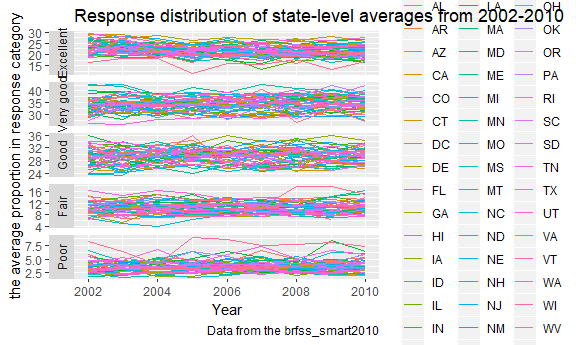
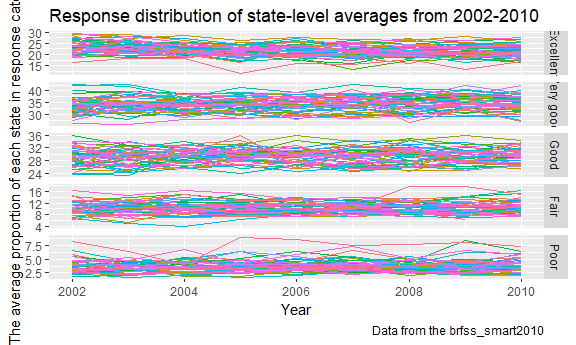
problem 2

diff --git a/p8105_hw3_hq2163_hanbo.md b/p8105_hw3_hq2163_hanbo.md
@@ -21,9 +21,11 @@ overall_health = janitor::clean_names(brfss_smart2010) %>%
 In 2002, which states were observed at 7 locations?
 
 ``` r
+#Make a table with distinct location in 2002.
 dist_loc_02 = filter(overall_health, year == 2002) %>% 
   distinct(locationabbr, locationdesc)
 
+#Make a table with distinct location in 2002.
 state_loc_7 = count(dist_loc_02, locationabbr) %>% 
   filter(n == 7)
 state_loc_7$locationabbr
@@ -41,32 +43,30 @@ dist_loc = distinct(overall_health, year, locationabbr, locationdesc)
 dist_loc %>% 
   ggplot(aes(x = year, color = locationabbr)) +
   geom_freqpoly(binwidth = 1) +
-  scale_x_continuous(breaks = 2002:2010, limits = c(2002,2010))+
+  scale_x_continuous(breaks = 2002:2010, limits = c(2002,2010)) +
   labs(
     title = "The number of observations in each state from 2002 to 2010",
     x = "Year",
-    y = "the number of observations in each state",
+    y = "No. of observations in each state",
     caption = "Data from the brfss_smart2010"
-  )
+  ) +
+  theme(legend.position="none")
 ```
 
     ## Warning: Removed 102 rows containing missing values (geom_path).
 
-<img src="p8105_hw3_hq2163_hanbo_files/figure-markdown_github/unnamed-chunk-3-1.png" width="90%" />
+<img src="p8105_hw3_hq2163_hanbo_files/figure-markdown_github/unnamed-chunk-3-1.png" width="90%" /> The number of observations in State jumps to above 40 in 2007 and 2010. The number of observations all the other states kept under 20 for the rest of the years.
 
-2002, 2006, and 2010, the mean and standard deviation of the proportion of “Excellent” responses across locations in NY State
+The mean and standard deviation of the proportion of “Excellent” responses across locations in NY State in 2002, 2006, and 2010.
 
 ``` r
-excellent_ny = filter(overall_health,
-                      year %in% c(2002, 2006, 2010), 
-                      response == "Excellent", 
-                      locationabbr == "NY") %>% 
-  group_by(year)
-
-ny_mean_sd = summarise(excellent_ny,
-                       excellent_mean = mean(data_value, na.rm = TRUE),
-                       excellent_sd = sd(data_value, na.rm = TRUE))
-ny_mean_sd
+overall_health %>% 
+  filter(year %in% c(2002, 2006, 2010), 
+         response == "Excellent", 
+         locationabbr == "NY") %>% 
+  group_by(year) %>% 
+  summarise(excellent_mean = mean(data_value, na.rm = TRUE),
+            excellent_sd = sd(data_value, na.rm = TRUE))
 ```
 
     ## # A tibble: 3 x 3
@@ -75,6 +75,8 @@ ny_mean_sd
     ## 1  2002           24.0         4.49
     ## 2  2006           22.5         4.00
     ## 3  2010           22.7         3.57
+
+The mean and standard deviation of the proportion of “Excellent” responses across locations in NY State in 2002 is 24% and 4.49%, in 2006 is 22.5% and 4%, in 2010 is 22.7% and 3.57%.
 
 each year and state, compute the average proportion and make a five-panel plot
 
@@ -87,17 +89,109 @@ response_mean = summarise(response_table,
 response_mean %>%  
   ggplot(aes(x = year, y = mean, color = locationabbr)) +
   geom_line() +
-  facet_wrap(vars(response), nrow = 5, scales = "free_y", switch = "y")+
+  facet_grid(response ~., scales = "free_y")+
   labs(
     title = "Response distribution of state-level averages from 2002-2010",
     x = "Year",
-    y = "the average proportion in response category",
+    y = "The average proportion of each state in response category",
     caption = "Data from the brfss_smart2010"
-  )
+  ) +
+  theme(legend.position = "none")
 ```
 
-    ## Warning: 'switch' is deprecated.
-    ## Use 'strip.position' instead.
-    ## See help("Deprecated")
-
 <img src="p8105_hw3_hq2163_hanbo_files/figure-markdown_github/unnamed-chunk-5-1.png" width="90%" />
+
+Problem 2
+---------
+
+``` r
+# load the data from the p8105.datasets package and summarize the data
+data(instacart)
+summary(instacart)
+```
+
+    ##     order_id         product_id    add_to_cart_order   reordered     
+    ##  Min.   :      1   Min.   :    1   Min.   : 1.000    Min.   :0.0000  
+    ##  1st Qu.: 843370   1st Qu.:13380   1st Qu.: 3.000    1st Qu.:0.0000  
+    ##  Median :1701880   Median :25298   Median : 7.000    Median :1.0000  
+    ##  Mean   :1706298   Mean   :25556   Mean   : 8.758    Mean   :0.5986  
+    ##  3rd Qu.:2568023   3rd Qu.:37940   3rd Qu.:12.000    3rd Qu.:1.0000  
+    ##  Max.   :3421070   Max.   :49688   Max.   :80.000    Max.   :1.0000  
+    ##     user_id         eval_set          order_number      order_dow    
+    ##  Min.   :     1   Length:1384617     Min.   :  4.00   Min.   :0.000  
+    ##  1st Qu.: 51732   Class :character   1st Qu.:  6.00   1st Qu.:1.000  
+    ##  Median :102933   Mode  :character   Median : 11.00   Median :3.000  
+    ##  Mean   :103113                      Mean   : 17.09   Mean   :2.701  
+    ##  3rd Qu.:154959                      3rd Qu.: 21.00   3rd Qu.:5.000  
+    ##  Max.   :206209                      Max.   :100.00   Max.   :6.000  
+    ##  order_hour_of_day days_since_prior_order product_name      
+    ##  Min.   : 0.00     Min.   : 0.00          Length:1384617    
+    ##  1st Qu.:10.00     1st Qu.: 7.00          Class :character  
+    ##  Median :14.00     Median :15.00          Mode  :character  
+    ##  Mean   :13.58     Mean   :17.07                            
+    ##  3rd Qu.:17.00     3rd Qu.:30.00                            
+    ##  Max.   :23.00     Max.   :30.00                            
+    ##     aisle_id     department_id      aisle            department       
+    ##  Min.   :  1.0   Min.   : 1.00   Length:1384617     Length:1384617    
+    ##  1st Qu.: 31.0   1st Qu.: 4.00   Class :character   Class :character  
+    ##  Median : 83.0   Median : 8.00   Mode  :character   Mode  :character  
+    ##  Mean   : 71.3   Mean   : 9.84                                        
+    ##  3rd Qu.:107.0   3rd Qu.:16.00                                        
+    ##  Max.   :134.0   Max.   :21.00
+
+A short description of the dataset: Instacart is an online grocery service that allows you to shop online from local stores. The dataset contains 1,384,617 observations and 15variables of 131,209 unique users, where each row in the dataset is an order about product information. Key variables includes 1."order\_dow":the day of the week on which the order was placed. It can help us to analyse which kind of products are sold best at what time and then Instacart could get the info of promoting at that day 2.order\_hour\_of\_day: the hour of the day on which the order was placed.Like we can analyze when to promote specific products 3.product\_name: name of the product. 4.aisle: the name of the aisle
+
+How many aisles are there, and which aisles are the most items ordered from?
+
+``` r
+dist_aisle = distinct(instacart, aisle_id)
+n_aisle = nrow(dist_aisle)
+
+item_aisle = count(instacart, aisle_id, sort = T)
+item_aisle[1,1]
+```
+
+    ## # A tibble: 1 x 1
+    ##   aisle_id
+    ##      <int>
+    ## 1       83
+
+There are 134 aisles and 83is the most items ordered from.
+
+Make a plot that shows the number of items ordered in each aisle. Order aisles sensibly, and organize your plot so others can read it.
+
+Make a table showing the most popular item aisles “baking ingredients”, “dog food care”, and “packaged vegetables fruits”
+
+``` r
+three_aisle = filter(instacart, aisle %in% c("baking ingredients", "dog food care", "packaged vegetables fruits")) %>% 
+  count(product_name)
+
+product_aisle = select(instacart, product_name, aisle) %>% 
+  distinct(product_name, .keep_all = T)
+
+com_aisle_product = left_join(three_aisle, product_aisle, by = "product_name") %>% 
+  group_by(aisle) %>% 
+  filter(min_rank(desc(n)) == 1) %>% 
+  select(aisle, product_name) %>% 
+  arrange(aisle)
+
+names(com_aisle_product)[1:2] = c("Aisle", "Most popular product")
+com_aisle_product
+```
+
+    ## # A tibble: 3 x 2
+    ## # Groups:   aisle [3]
+    ##   Aisle                      `Most popular product`                       
+    ##   <chr>                      <chr>                                        
+    ## 1 baking ingredients         Light Brown Sugar                            
+    ## 2 dog food care              Snack Sticks Chicken & Rice Recipe Dog Treats
+    ## 3 packaged vegetables fruits Organic Baby Spinach
+
+Make a table showing the mean hour of the day at which Pink Lady Apples and Coffee Ice Cream are ordered on each day of the week; format this table for human readers (i.e. produce a 2 x 7 table).
+
+``` r
+apple_icecream = filter(instacart, product_name %in% c("Pink Lady Apples", "Coffee Ice Cream")) %>% 
+  group_by(product_name, order_dow) %>% 
+  summarise(mean = round(mean(order_hour_of_day), 0)) %>% 
+  spread(key = order_dow, value = mean )
+```

diff --git a/README.md b/README.md
@@ -9,3 +9,5 @@ Problem 1
 Problem 2
 
 1.load the data from the p8105.datasets package and summarize the data
+2.answer some questions.
+3.make plots and table.
